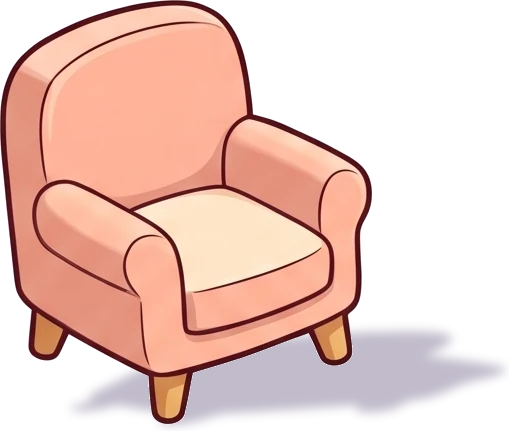
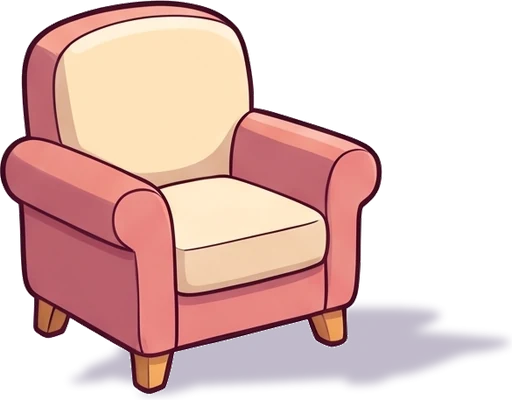
feat: Cozy Studio room with the bed, wardrobe, desk and shelves drawn in; its sofa and armchair face the viewer
renderBakedRoom.mjs gains batch, batch-status and batch-collect for several takes at half price. Turning and movable-furniture tests move to Neon Pop.

diff --git a/src/data/roomPlacement.test.ts b/src/data/roomPlacement.test.ts
@@ -506,24 +506,24 @@ describe('mission objects and the desk', () => {
   });
 
   describe('turning big items to the other wall', () => {
-    const cozy = { ...baseProfile, themeId: 'cozy-studio' } as LearnerProfile;
-    const { cornerX } = getRoomGeometry('cozy-studio');
-    const sofaOnRightWall = placeRoomItemAt(cozy, 'room-sofa', { x: 75, y: 88 }, NOW);
+    const neon = { ...baseProfile, themeId: 'neon-pop' } as LearnerProfile;
+    const { cornerX } = getRoomGeometry('neon-pop');
+    const sofaOnRightWall = placeRoomItemAt(neon, 'room-sofa', { x: 75, y: 88 }, NOW);
 
     it('marks only furniture with a front and a side as turnable', () => {
       ['room-sofa', 'object:bed', 'object:wardrobe', 'object:desk'].forEach((key) =>
-        expect(findEntry(key === 'room-sofa' ? sofaOnRightWall : cozy, key)?.canRotate, key).toBe(true)
+        expect(findEntry(key === 'room-sofa' ? sofaOnRightWall : neon, key)?.canRotate, key).toBe(true)
       );
-      expect(findEntry(cozy, 'object:phone')?.canRotate).toBe(false);
-      expect(findEntry(placeRoomItemAt(cozy, 'room-books', { x: 70, y: 40 }, NOW), 'room-books')?.canRotate).toBe(false);
+      expect(findEntry(neon, 'object:phone')?.canRotate).toBe(false);
+      expect(findEntry(placeRoomItemAt(neon, 'room-books', { x: 70, y: 40 }, NOW), 'room-books')?.canRotate).toBe(false);
     });
 
     it('knows which wall a big item stands against from where it stands', () => {
       expect(findEntry(sofaOnRightWall, 'room-sofa')?.isOnLeftWall).toBe(false);
       // by default the bed and the wardrobe stand along the left wall, the desk along the right one
-      expect(findEntry(cozy, 'object:bed')?.isOnLeftWall).toBe(true);
-      expect(findEntry(cozy, 'object:wardrobe')?.isOnLeftWall).toBe(true);
-      expect(findEntry(cozy, 'object:desk')?.isOnLeftWall).toBe(false);
+      expect(findEntry(neon, 'object:bed')?.isOnLeftWall).toBe(true);
+      expect(findEntry(neon, 'object:wardrobe')?.isOnLeftWall).toBe(true);
+      expect(findEntry(neon, 'object:desk')?.isOnLeftWall).toBe(false);
     });
 
     it('turns an item where it stands: only the picture changes wall, and turning twice turns it back', () => {
@@ -540,16 +540,16 @@ describe('mission objects and the desk', () => {
       const movedSofa = placeRoomItemAt(sofaOnRightWall, 'room-sofa', { x: 20, y: 92 }, NOW);
       expect(findEntry(movedSofa, 'room-sofa')!.point.x).toBeLessThan(cornerX);
       expect(findEntry(movedSofa, 'room-sofa')!.isOnLeftWall).toBe(false);
-      const movedDesk = moveRoomObject(cozy, 'desk', { x: 20, y: 95 }, NOW);
+      const movedDesk = moveRoomObject(neon, 'desk', { x: 20, y: 95 }, NOW);
       expect(findEntry(movedDesk, 'object:desk')!.isOnLeftWall).toBe(false);
-      const turnedThenMoved = moveRoomObject(turnRoomItem(cozy, 'object:desk', NOW), 'desk', { x: 85, y: 95 }, NOW);
+      const turnedThenMoved = moveRoomObject(turnRoomItem(neon, 'object:desk', NOW), 'desk', { x: 85, y: 95 }, NOW);
       expect(findEntry(turnedThenMoved, 'object:desk')!.isOnLeftWall).toBe(true);
     });
 
     it('keeps a turned item on the floor, below the baseboard', () => {
-      const geometry = getRoomGeometry('cozy-studio');
+      const geometry = getRoomGeometry('neon-pop');
       ['room-sofa', 'object:bed', 'object:wardrobe', 'object:desk'].forEach((key) => {
-        const profile = turnRoomItem(key === 'room-sofa' ? sofaOnRightWall : cozy, key, NOW);
+        const profile = turnRoomItem(key === 'room-sofa' ? sofaOnRightWall : neon, key, NOW);
         const entry = findEntry(profile, key)!;
         expect(entry.point.y, key).toBeGreaterThanOrEqual(floorEdgeY(geometry, entry.point.x));
         expect(entry.item.slotKind, key).toBe('floor');
@@ -557,7 +557,7 @@ describe('mission objects and the desk', () => {
     });
 
     it('turns the desk with what lies on it', () => {
-      const turned = turnRoomItem(cozy, 'object:desk', NOW);
+      const turned = turnRoomItem(neon, 'object:desk', NOW);
       const desk = findEntry(turned, 'object:desk')!;
       expect(desk.isOnLeftWall).toBe(true);
       const phone = findEntry(turned, 'object:phone')!;
@@ -566,8 +566,8 @@ describe('mission objects and the desk', () => {
     });
 
     it('leaves items that cannot turn, and unknown keys, unchanged', () => {
-      expect(turnRoomItem(cozy, 'object:phone', NOW)).toBe(cozy);
-      expect(turnRoomItem(cozy, 'nope', NOW)).toBe(cozy);
+      expect(turnRoomItem(neon, 'object:phone', NOW)).toBe(neon);
+      expect(turnRoomItem(neon, 'nope', NOW)).toBe(neon);
     });
   });
 

diff --git a/src/components/room/RoomScene.test.tsx b/src/components/room/RoomScene.test.tsx
@@ -8,9 +8,12 @@ import { RoomScene } from './RoomScene';
 
 const NOW = new Date('2026-10-29T10:00:00.000Z');
 
+/** A room whose furniture is movable (not drawn into the room picture). */
+const neonProfile = () => makeProfile({ themeId: 'neon-pop' });
+
 const profileWithSofa = () =>
   placeRoomItemAt(
-    makeProfile({ unlockedRewardIds: ['room-sofa'], room: { ...getRoom(makeProfile()), placements: {} } }),
+    makeProfile({ themeId: 'neon-pop', unlockedRewardIds: ['room-sofa'], room: { ...getRoom(makeProfile()), placements: {} } }),
     'room-sofa',
     { x: 75, y: 88 },
     NOW
@@ -19,7 +22,7 @@ const profileWithSofa = () =>
 function renderScene(profile: ReturnType<typeof makeProfile>, moveRequestKey: string | null = null) {
   return render(
     <RoomScene
-      themeId="cozy-studio"
+      themeId="neon-pop"
       avatarEmoji="🐶"
       entries={getPlacedRoomEntries(profile)}
       avatarPos={AVATAR_HOME}
@@ -39,27 +42,27 @@ describe('RoomScene turned items', () => {
   it('shows the right-wall sofa picture, and the left-wall picture once the sofa is turned to the other wall', () => {
     const profile = profileWithSofa();
     const { unmount } = renderScene(profile);
-    expect(pictureOf('sofa · ספה')).toBe('/art/room/cozy-studio/room-sofa.webp');
+    expect(pictureOf('sofa · ספה')).toBe('/art/room/neon-pop/room-sofa.webp');
     unmount();
 
     renderScene(turnRoomItem(profile, 'room-sofa', NOW));
-    expect(pictureOf('sofa · ספה')).toBe('/art/room/cozy-studio/room-sofa-b.webp');
+    expect(pictureOf('sofa · ספה')).toBe('/art/room/neon-pop/room-sofa-b.webp');
   });
 });
 
 describe('RoomScene moving the games book', () => {
   it('shows both the floor and the desk top as places for the book', () => {
-    const { container } = renderScene(makeProfile(), 'object:games-book');
+    const { container } = renderScene(neonProfile(), 'object:games-book');
     expect(container.querySelectorAll('[data-zone]')).toHaveLength(2);
   });
 
   it('shows only the floor as a place for the bed', () => {
-    const { container } = renderScene(makeProfile(), 'object:bed');
+    const { container } = renderScene(neonProfile(), 'object:bed');
     expect(container.querySelectorAll('[data-zone]')).toHaveLength(1);
   });
 
   it('outlines a corner room floor along its baseboard, down to the bottom of the picture', () => {
-    const { container } = renderScene(makeProfile(), 'object:bed');
+    const { container } = renderScene(neonProfile(), 'object:bed');
     const outline = container.querySelector('[data-zone="floor"] polygon')?.getAttribute('points') ?? '';
     const points = outline.split(' ').map((pair) => pair.split(',').map(Number));
     expect(points.length).toBeGreaterThan(10);

diff --git a/src/data/roomGeometry.ts b/src/data/roomGeometry.ts
@@ -365,7 +365,59 @@ function bakedRoom({ cornerX, window, edge: [yLeft, yCorner, yRight], wallLeft, 
 }
 
 const ROOM_GEOMETRY: Record<ThemeId, RoomGeometry> = {
-  'cozy-studio': cornerRoom({ cornerX: 57.5, window: { xMin: 12, xMax: 50, yMin: 10, yMax: 63 }, edge: [71, 67, 80], sill: { xMin: 22, xMax: 46, y: 62.5 } }),
+  'cozy-studio': bakedRoom({
+    cornerX: 51,
+    window: { xMin: 23, xMax: 46, yMin: 11, yMax: 52 },
+    edge: [81, 63, 78.5],
+    wallLeft: { xMin: 8, xMax: 17, yMin: 10.5, yMax: 14.5 },
+    wallRight: { xMin: 87, xMax: 93, yMin: 17, yMax: 25 },
+    board: { xMin: 86, xMax: 92, yMin: 10, yMax: 12 },
+    shelves: [
+      { id: 'shelf-high', xMin: 59.5, xMax: 79.5, y: 25.2, tilt: 0.035 },
+      { id: 'shelf-low', xMin: 73.5, xMax: 95, y: 36.6, tilt: 0.045 },
+      { id: 'window-sill', xMin: 30.5, xMax: 40, y: 48.3 },
+    ],
+    baked: {
+      roomPicture: '/art/cozy-studio/room-baked.webp',
+      pieces: [
+        {
+          id: 'wardrobe',
+          tapArea: [{ x: 0, y: 22 }, { x: 26, y: 22 }, { x: 26, y: 77 }, { x: 10, y: 85 }, { x: 4, y: 85 }, { x: 0, y: 84 }],
+          standAt: { x: 29, y: 89 },
+          bubbleAt: { x: 13, y: 20 },
+        },
+        {
+          id: 'bed',
+          tapArea: [{ x: 25.5, y: 60 }, { x: 36, y: 57 }, { x: 42, y: 53.5 }, { x: 51, y: 53 }, { x: 51, y: 45 }, { x: 57, y: 38 }, { x: 64, y: 38 }, { x: 69.5, y: 45 }, { x: 69.5, y: 58 }, { x: 65, y: 69 }, { x: 40, y: 82.5 }, { x: 37, y: 82 }, { x: 25.5, y: 74 }],
+          standAt: { x: 48, y: 87 },
+          bubbleAt: { x: 52, y: 37 },
+        },
+        {
+          id: 'desk',
+          tapArea: [{ x: 65, y: 55 }, { x: 75, y: 52.3 }, { x: 99.5, y: 57.3 }, { x: 99.5, y: 61 }, { x: 98, y: 80 }, { x: 91, y: 84.5 }, { x: 88, y: 84.5 }, { x: 66, y: 76 }, { x: 65, y: 57 }],
+          standAt: { x: 70, y: 89 },
+          bubbleAt: { x: 82, y: 51 },
+        },
+      ],
+      freeFloorEdge: [
+        { x: 0, y: 83 },
+        { x: 5, y: 85 },
+        { x: 10, y: 84.5 },
+        { x: 25.5, y: 77.5 },
+        { x: 25.5, y: 74 },
+        { x: 39, y: 82.5 },
+        { x: 65, y: 69.5 },
+        { x: 67, y: 76.5 },
+        { x: 90, y: 84.5 },
+        { x: 92, y: 81 },
+        { x: 97, y: 79.5 },
+        { x: 100, y: 79 },
+      ],
+      deskTop: [{ x: 65.3, y: 55.5 }, { x: 75, y: 52.8 }, { x: 98.8, y: 57.5 }, { x: 90.1, y: 60.3 }],
+    },
+    gamesBook: { x: 55, y: 90 },
+    avatarHome: { x: 50, y: 92 },
+  }),
   'neon-pop': cornerRoom({ cornerX: 57.5, window: { xMin: 12, xMax: 45, yMin: 10, yMax: 66 }, edge: [88, 64, 82], sill: { xMin: 14, xMax: 38, y: 61 } }),
   'starlight-rpg': bakedRoom({
     cornerX: 55,

diff --git a/src/data/roomArtManifest.ts b/src/data/roomArtManifest.ts
@@ -18,10 +18,10 @@ export const ROOM_ART: Record<string, Record<string, RoomArtSprite>> = {
     'furniture-shelf-low': { aspect: 1.3954, left: 0.0, right: 1.0, top: 0.0, bottom: 1.0, slope: -0.527 },
     'furniture-sill': { aspect: 1.7655, left: 0.0, right: 1.0, top: 0.0, bottom: 1.0, slope: -0.428 },
     'furniture-board': { aspect: 1.012, left: 0.0, right: 1.0, top: 0.0, bottom: 1.0, slope: 0.333 },
-    'room-sofa': { aspect: 1.5754, left: 0.0, right: 0.7695, top: 0.0, bottom: 0.9877, slope: 0.363 },
-    'room-sofa-b': { aspect: 1.5754, left: 0.0, right: 0.7695, top: 0.0, bottom: 0.9877, slope: -0.355 },
-    'room-chair': { aspect: 1.2995, left: 0.0, right: 0.6643, top: 0.0, bottom: 0.9861, slope: 0.356 },
-    'room-chair-b': { aspect: 1.181, left: 0.0, right: 0.7308, top: 0.0, bottom: 0.9861, slope: -0.384 },
+    'room-sofa': { aspect: 1.7902, left: 0.0, right: 0.8034, top: 0.0, bottom: 0.9858, slope: 0.0 },
+    'room-sofa-b': { aspect: 1.7902, left: 0.0, right: 0.8034, top: 0.0, bottom: 0.9858, slope: 0.0 },
+    'room-chair': { aspect: 1.28, left: 0.0, right: 0.747, top: 0.0, bottom: 0.9869, slope: 0.0 },
+    'room-chair-b': { aspect: 1.28, left: 0.0, right: 0.747, top: 0.0, bottom: 0.9869, slope: 0.0 },
     'object-bed': { aspect: 1.595, left: 0.0, right: 0.7342, top: 0.0, bottom: 0.9879, slope: 0.435 },
     'object-bed-b': { aspect: 1.4183, left: 0.0, right: 0.8262, top: 0.0, bottom: 0.9879, slope: -0.435 },
     'object-wardrobe': { aspect: 1.1058, left: 0.0, right: 0.5774, top: 0.0, bottom: 0.9901, slope: 0.325 },

diff --git a/scripts/art/process_room_art.py b/scripts/art/process_room_art.py
@@ -74,7 +74,12 @@ FLAT_SLOPE_OVERRIDES = {'starlight-rpg/room-sofa': -0.3}
 # Rooms with the furniture drawn in: the sofa and armchair face the viewer (renderRoomArt.mjs front,
 # art-src/room-art/<theme>/<id>-front-<take>.png), never turn, and are level (slope 0). The picked take
 # serves both views; it gets the same made shadow as the flat furniture.
-FRONT_PICKS = {'starlight-rpg/room-sofa': 5, 'starlight-rpg/room-chair': 2}
+FRONT_PICKS = {
+    'starlight-rpg/room-sofa': 5,
+    'starlight-rpg/room-chair': 2,
+    'cozy-studio/room-sofa': 3,
+    'cozy-studio/room-chair': 3,
+}
 SHADOW_SQUASH = 0.22  # the shadow's height as a share of the object's (light from high up on the left)
 SHADOW_LEAN = 0.55  # pixels to the right per pixel of the object's height
 SHADOW_BLUR = 5

diff --git a/docs/architecture.md b/docs/architecture.md
@@ -195,7 +195,7 @@ Each learning mission consists of 5 pedagogical drill stages:
 
 ### 4.12. My English Room (`room.ts`, `wardrobe.ts`, `roomRewards.ts`, `roomActivities.ts`, `voiceMessages.ts`, `dreamJournal.ts`, `wordGames.ts`, `stickers.ts`, `components/room/`)
 - The "החדר שלי" home dock tile opens the room full-screen; its dot shows while an earned item waits to be placed.
-- **The room** (`RoomScene`): a drawn wall/floor scene, drawn furniture (`public/art/room/*.webp`: two shelves, the window sill, the desk and the sticker board, made with `scripts/art/renderRoomFurniture.mjs` and `scripts/art/process_room_furniture.py`; `FURNITURE_PIECES` in `roomLayout.ts`) and four mission objects: 🛏 bed, 📱 phone, 🚪 wardrobe, 📖 Games Book. **Free placement** (`data/roomPlacement.ts`): items stand on *surfaces* (`ROOM_SURFACES`: wall-left/right, board, shelf-high, shelf-low, window-sill, desk-top, floor), each for one `slotKind`. A point is the item's feet (shelf, desk, floor) or centre (wall, board), in scene %. `snapToSurface` puts any point on the nearest surface of the item's kind, `findFreePoint` moves a drop off other items, floor items scale with depth (`getDepthScale`), and a soft shadow sits under standing items. **Moving**: drag with mouse or touch (`useRoomItemDrag`, 6 px threshold so a tap still taps; the surfaces show as dashed zones while dragging), or with the keyboard: focus an item or press "הזזה", arrows move, Up/Down or PageUp/PageDown change surface, Enter drops, Esc cancels, with a Hebrew live announcement. **Everything is movable**: the mission objects (bed, wardrobe, phone, games book) and the desk are entries too (key `object:<id>`, `room.positions`; `moveRoomObject` / `moveRoomEntry`, defaults in `getPlacedRoomEntries`). Big furniture (bed, wardrobe, desk, sofa) stands on the floor surface (feet at the floor depth, width-aware edge and overlap rules, `getItemWidth` gives believable relative sizes), and the desk top is a surface that follows the desk (`getRoomLayout`, `getDeskTopPoint`): moving the desk carries the phone and the small items on it. The icons have transparent padding, so the scene anchors an item's feet and its contact shadow on the drawn object's visible bottom (`data/roomIconBounds.ts`, generated by `python scripts/art/measure_icon_bounds.py` from the icon alpha; re-run it when a room item gets a new icon): the shadow is an ellipse 70% of the footprint, centred on the feet. z-order follows the feet's y, with desk items above the desk. Tapping the stickers button with no stickers owned opens `StickersLockedSheet` (gendered Hebrew from `getHebrewCopy`, read aloud for grades 1–2, button to the shop; its two lines are in the Hebrew TTS corpus, so run `npm run tts:render:he -- submit` / `collect` to give them clips, until then the online voice reads them); an opened panel scrolls into view. A new item is chosen in the inventory, a zone is tapped, and the item is named as before. **Corner rooms** (`data/roomGeometry.ts`): each theme has a corner room picture, `public/art/<theme>/room-corner.webp` (`art.roomCorner`, 4:3, drawn by the pilot script `scripts/art/renderRoomPilot.mjs`), and a `RoomGeometry` measured on it: the corner x, the baseboard line (`floorEdge`, not level), the zones for hanging items, the shelf lines, sill and sticker board (right wall), and where the bed, wardrobe, desk and book stand until moved. `getRoomLayout(profile)` carries it (`layout.geometry`), `getSurfaces` builds the surfaces from it (floor items stay below the baseboard: `RoomSurface.minYAt`), `getDepthScale` and `getDeskTopPoint` take it, and saved positions are pulled back inside the room on read (`settle`; the original room, `LEGACY_GEOMETRY`, keeps points exactly as saved and is the fallback for an unknown theme). The first front-on pictures (`room-bg.webp`) stay in `public/art` unused. Furniture sprites (`getFurniturePieces`: the two shelves and the board, from the themed pictures in `public/art/room/<theme>/`; no sill is drawn, the room pictures have their own window ledge) and the item pictures come from `ROOM_ART` (`data/roomArt.ts`, generated by `scripts/art/process_room_art.py`; drawn with `scripts/art/renderRoomArt.mjs`). The games book may also lie on the desk top (`getObjectMoveKinds`, `OBJECT_EXTRA_KINDS`: an object with extra kinds ends up on whichever of its surfaces the drop is nearest, its kind follows where it stands, and the drag zones show both); what lies on the desk follows the desk top exactly when the desk moves. **Turning to the other wall** (`turnRoomItem`, `getOtherWallPoint`): sofa, chair, bed, wardrobe and desk (`ROTATABLE_KEYS`) stand against a wall, and their picture follows the wall (`PlacedRoomEntry.isOnLeftWall`: left of the geometry's `cornerX`): each has a right-wall picture and a second, left-wall picture (`<id>-b`, drawn the other way round with its shadow still on the right). Dragging such an item across the corner switches its picture; the icon-only 🔄 button moves it to the matching spot against the other wall (same distance along the wall and from the baseboard), so it never floats away from the wall it was against. The desk takes what lies on it along. The button sits next to move / put away (also after tapping a bed, wardrobe or desk) and has no visible Hebrew text, so nothing new is read aloud. Nothing about the turn is stored: the wall follows from the item's position. Wall pictures, board stickers and things on the sill are drawn for the right wall and mirrored on the left (`getRoomSprite`'s `canMirror`); floor and desk items with a baked shadow are never mirrored. Per-theme colours stay in `roomLayout.ts`. The equipped shop avatar walks to whatever the learner taps. **Rooms with the furniture drawn in** (Starlight so far; the other themes switch one by one, then the movable-furniture code goes): the room picture `public/art/<theme>/room-baked.webp` has the bed, wardrobe, desk and both shelves drawn in, in the same places in every theme (drawn with `scripts/art/renderBakedRoom.mjs`: a 2 × 2 sheet of takes, a pick, small fixes with the pick as reference; cut to 4:3 by `scripts/art/process_baked_room.py`). `RoomGeometry.baked` holds what was measured on it: for each piece a tap area, a spot for the avatar and a spot for its name (`getFixedFurniture`; RoomScene draws an invisible, focusable button over each piece, RoomScreen walks the avatar there and opens its activity), the line along the front of the furniture that floor items stay in front of across their whole width (`freeFloorEdge`), the drawn desk top (`deskTop`) and the shelf lines with their own tilt. In such a room the bed, wardrobe and desk are not entries (no move, no turn), no piece turns, and positions or facings saved for them stay in the profile unused. There is no sticker board: stickers hang on the free walls or stand on the drawn shelves (`getSurfaces('board')`). The sofa and armchair face the viewer (`renderRoomArt.mjs front`, a sheet of takes drawn with the room as reference; the picked take is named in `FRONT_PICKS` in `process_room_art.py`, level, with a made shadow) and move on the free floor.
+- **The room** (`RoomScene`): a drawn wall/floor scene, drawn furniture (`public/art/room/*.webp`: two shelves, the window sill, the desk and the sticker board, made with `scripts/art/renderRoomFurniture.mjs` and `scripts/art/process_room_furniture.py`; `FURNITURE_PIECES` in `roomLayout.ts`) and four mission objects: 🛏 bed, 📱 phone, 🚪 wardrobe, 📖 Games Book. **Free placement** (`data/roomPlacement.ts`): items stand on *surfaces* (`ROOM_SURFACES`: wall-left/right, board, shelf-high, shelf-low, window-sill, desk-top, floor), each for one `slotKind`. A point is the item's feet (shelf, desk, floor) or centre (wall, board), in scene %. `snapToSurface` puts any point on the nearest surface of the item's kind, `findFreePoint` moves a drop off other items, floor items scale with depth (`getDepthScale`), and a soft shadow sits under standing items. **Moving**: drag with mouse or touch (`useRoomItemDrag`, 6 px threshold so a tap still taps; the surfaces show as dashed zones while dragging), or with the keyboard: focus an item or press "הזזה", arrows move, Up/Down or PageUp/PageDown change surface, Enter drops, Esc cancels, with a Hebrew live announcement. **Everything is movable**: the mission objects (bed, wardrobe, phone, games book) and the desk are entries too (key `object:<id>`, `room.positions`; `moveRoomObject` / `moveRoomEntry`, defaults in `getPlacedRoomEntries`). Big furniture (bed, wardrobe, desk, sofa) stands on the floor surface (feet at the floor depth, width-aware edge and overlap rules, `getItemWidth` gives believable relative sizes), and the desk top is a surface that follows the desk (`getRoomLayout`, `getDeskTopPoint`): moving the desk carries the phone and the small items on it. The icons have transparent padding, so the scene anchors an item's feet and its contact shadow on the drawn object's visible bottom (`data/roomIconBounds.ts`, generated by `python scripts/art/measure_icon_bounds.py` from the icon alpha; re-run it when a room item gets a new icon): the shadow is an ellipse 70% of the footprint, centred on the feet. z-order follows the feet's y, with desk items above the desk. Tapping the stickers button with no stickers owned opens `StickersLockedSheet` (gendered Hebrew from `getHebrewCopy`, read aloud for grades 1–2, button to the shop; its two lines are in the Hebrew TTS corpus, so run `npm run tts:render:he -- submit` / `collect` to give them clips, until then the online voice reads them); an opened panel scrolls into view. A new item is chosen in the inventory, a zone is tapped, and the item is named as before. **Corner rooms** (`data/roomGeometry.ts`): each theme has a corner room picture, `public/art/<theme>/room-corner.webp` (`art.roomCorner`, 4:3, drawn by the pilot script `scripts/art/renderRoomPilot.mjs`), and a `RoomGeometry` measured on it: the corner x, the baseboard line (`floorEdge`, not level), the zones for hanging items, the shelf lines, sill and sticker board (right wall), and where the bed, wardrobe, desk and book stand until moved. `getRoomLayout(profile)` carries it (`layout.geometry`), `getSurfaces` builds the surfaces from it (floor items stay below the baseboard: `RoomSurface.minYAt`), `getDepthScale` and `getDeskTopPoint` take it, and saved positions are pulled back inside the room on read (`settle`; the original room, `LEGACY_GEOMETRY`, keeps points exactly as saved and is the fallback for an unknown theme). The first front-on pictures (`room-bg.webp`) stay in `public/art` unused. Furniture sprites (`getFurniturePieces`: the two shelves and the board, from the themed pictures in `public/art/room/<theme>/`; no sill is drawn, the room pictures have their own window ledge) and the item pictures come from `ROOM_ART` (`data/roomArt.ts`, generated by `scripts/art/process_room_art.py`; drawn with `scripts/art/renderRoomArt.mjs`). The games book may also lie on the desk top (`getObjectMoveKinds`, `OBJECT_EXTRA_KINDS`: an object with extra kinds ends up on whichever of its surfaces the drop is nearest, its kind follows where it stands, and the drag zones show both); what lies on the desk follows the desk top exactly when the desk moves. **Turning to the other wall** (`turnRoomItem`, `getOtherWallPoint`): sofa, chair, bed, wardrobe and desk (`ROTATABLE_KEYS`) stand against a wall, and their picture follows the wall (`PlacedRoomEntry.isOnLeftWall`: left of the geometry's `cornerX`): each has a right-wall picture and a second, left-wall picture (`<id>-b`, drawn the other way round with its shadow still on the right). Dragging such an item across the corner switches its picture; the icon-only 🔄 button moves it to the matching spot against the other wall (same distance along the wall and from the baseboard), so it never floats away from the wall it was against. The desk takes what lies on it along. The button sits next to move / put away (also after tapping a bed, wardrobe or desk) and has no visible Hebrew text, so nothing new is read aloud. Nothing about the turn is stored: the wall follows from the item's position. Wall pictures, board stickers and things on the sill are drawn for the right wall and mirrored on the left (`getRoomSprite`'s `canMirror`); floor and desk items with a baked shadow are never mirrored. Per-theme colours stay in `roomLayout.ts`. The equipped shop avatar walks to whatever the learner taps. **Rooms with the furniture drawn in** (Starlight and Cozy Studio so far; the other themes switch one by one, then the movable-furniture code goes): the room picture `public/art/<theme>/room-baked.webp` has the bed, wardrobe, desk and both shelves drawn in, in the same places in every theme (drawn with `scripts/art/renderBakedRoom.mjs`: a 2 × 2 sheet of takes, a pick, small fixes with the pick as reference, `batch <theme>` for several takes at half price; cut to 4:3 by `scripts/art/process_baked_room.py`). `RoomGeometry.baked` holds what was measured on it: for each piece a tap area, a spot for the avatar and a spot for its name (`getFixedFurniture`; RoomScene draws an invisible, focusable button over each piece, RoomScreen walks the avatar there and opens its activity), the line along the front of the furniture that floor items stay in front of across their whole width (`freeFloorEdge`), the drawn desk top (`deskTop`) and the shelf lines with their own tilt. In such a room the bed, wardrobe and desk are not entries (no move, no turn), no piece turns, and positions or facings saved for them stay in the profile unused. There is no sticker board: stickers hang on the free walls or stand on the drawn shelves (`getSurfaces('board')`). The sofa and armchair face the viewer (`renderRoomArt.mjs front`, a sheet of takes drawn with the room as reference; the picked take is named in `FRONT_PICKS` in `process_room_art.py`, level, with a made shadow) and move on the free floor.
 - **Mission objects** show a "coming soon" bubble with their activity until later phases ship.
 - **Items**: 20 room items (`ROOM_ITEMS`) plus the shop decor lamp and the 3 shop stickers (`SHOP_ROOM_ITEMS`). Every learner starts with the 🪴 plant. Ownership reuses `unlockedRewardIds`.
 - **Earning**: a mission's *first* 3-star result awards the next unowned item in `ROOM_REWARD_ORDER` (`roomRewards.ts`), which alternates room decor and wardrobe items. The victory screen previews it and the dashboard shows a toast.
